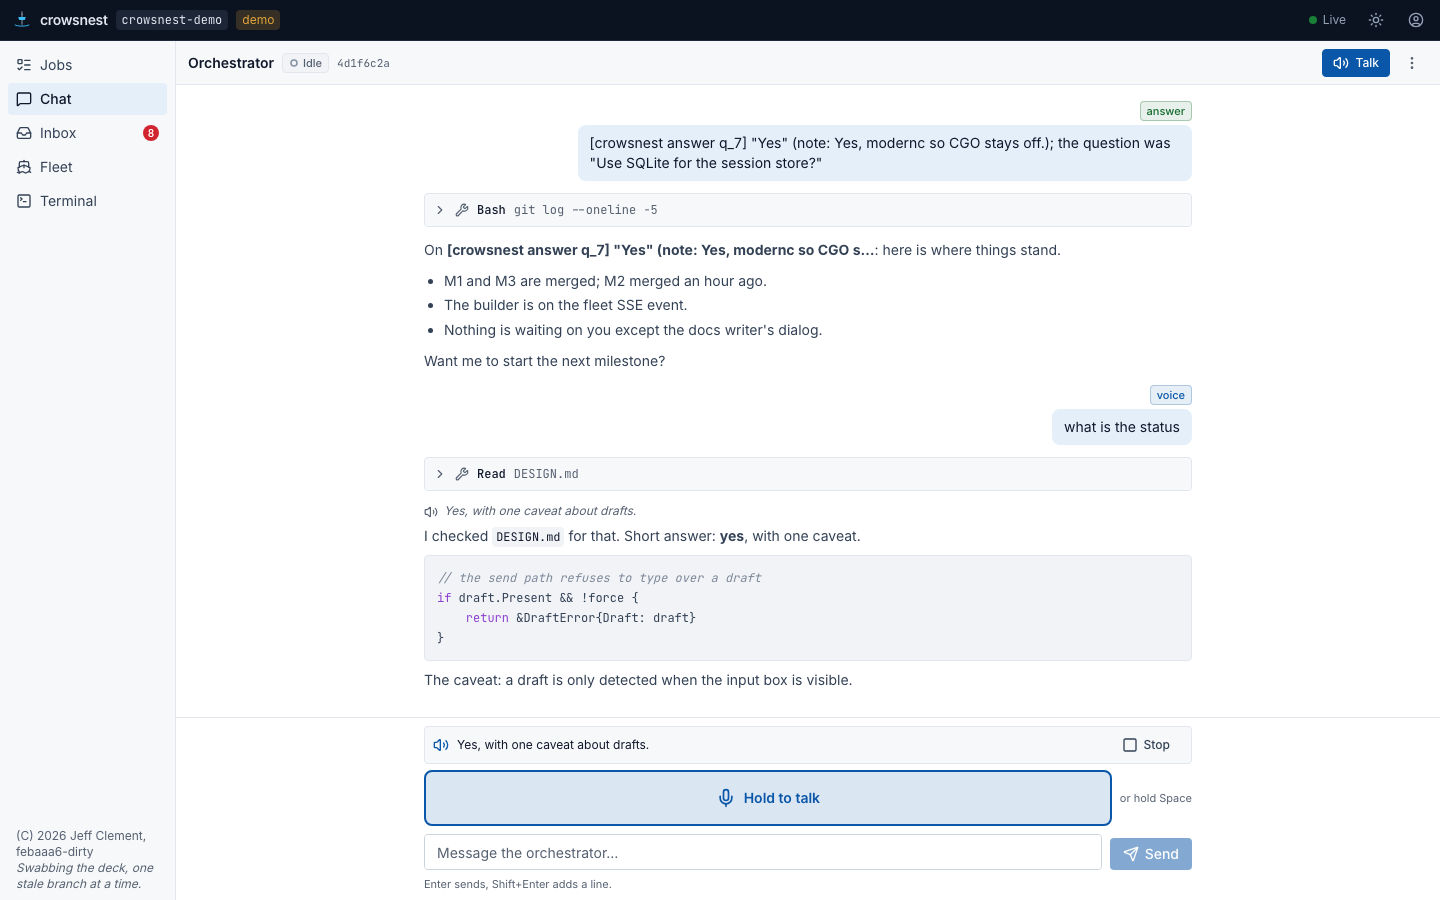
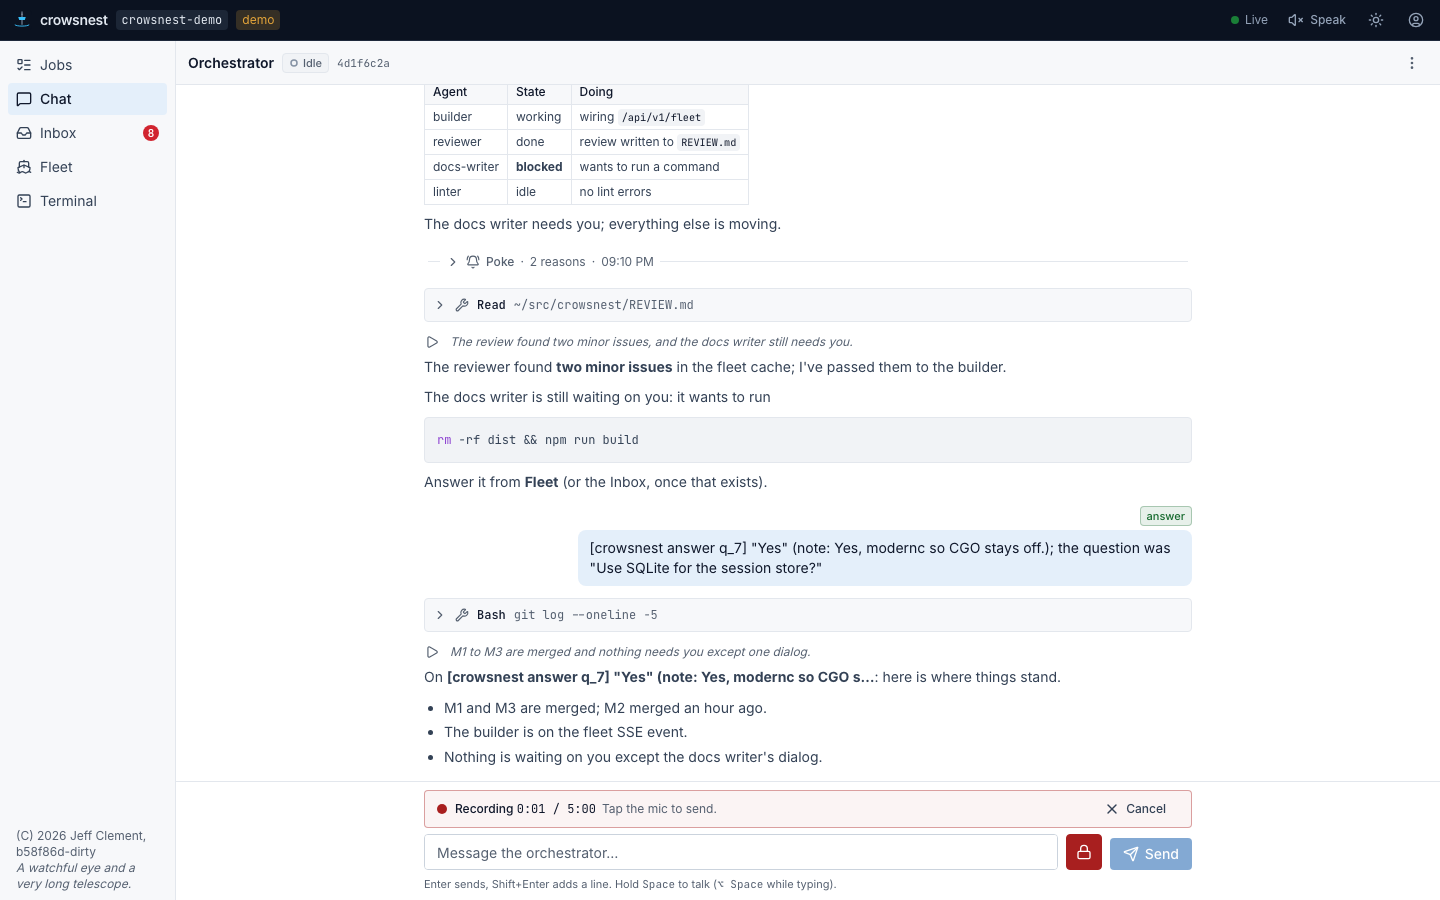
E2E: the voice flow, hold Space with real key events (Chromium and WebKit), the Voice sheet

diff --git a/web/e2e/hermetic/talk.spec.ts b/web/e2e/hermetic/talk.spec.ts
@@ -1,13 +1,22 @@
-// Talk mode end to end (M11) against `crowsnest --demo` and a fake ElevenLabs, with Chromium's
-// fake microphone: turn talk mode on, hold to talk, the recording is transcribed (by the fake)
-// and sent to the orchestrator under the voice header; the demo orchestrator answers with a
-// SAY line, which the server turns into a `say` event; the browser fetches /voice/tts for it and
-// plays it through the speech <audio> element. Also photographs Chat with talk mode on at 375
-// and 1440 px. Part of `mise run e2e` (desktop Chromium only: the fake microphone is a Chromium
-// switch); `mise run e2e:voice` runs it alone.
+// Talk mode end to end against `crowsnest --demo` and a fake ElevenLabs, with the browser's fake
+// microphone:
+//
+// - The mic in the Chat composer (no switch first): hold → transcribed → sent under the voice
+//   header; the demo orchestrator's reply carries a SAY line (it always does now), shown as the
+//   caption; with speak mode on (the header switch, on every view) the browser fetches its
+//   speech and plays it; with it off nothing is synthesised; a reply's play button speaks it on
+//   demand.
+// - Hold Space, driven with real key events (Playwright keyboard.down/up): holds of 3 s and 30 s
+//   from the page, from a focused button and with auto-repeat; a quick tap that must not lock the
+//   mic on or send; Option/Ctrl+Space from the composer while plain Space types; blur mid-hold.
+//   These are the cases that were broken (see the voice-fix report); they run in Chromium and
+//   in WebKit.
+// - The Voice sheet: the account's voices, a preview, and a saved voice and speed used for the
+//   next reply.
+// - Chat at 375 and 1440 px with the mic recording, photographed.
 //
 // Each test starts its own fake ElevenLabs on a free port and a demo instance pointed at it, so
-// no real ElevenLabs call is ever made.
+// no real ElevenLabs call is ever made. `mise run e2e:voice` runs this file alone.
 import { spawn, type ChildProcess } from "node:child_process";
 import type { Page } from "@playwright/test";
 import { expect, test as base } from "../support/fixtures";
@@ -38,7 +47,10 @@ test.use({
   permissions: ["microphone"],
   launchOptions: { args: ["--use-fake-device-for-media-stream", "--use-fake-ui-for-media-stream", "--autoplay-policy=user-gesture-required"] },
 });
-test.skip(({ browserName, isMobile }) => browserName !== "chromium" || isMobile, "the fake microphone is a desktop Chromium switch");
+// The fake microphone is a Chromium switch; WebKit (Playwright's build) has a mock capture device
+// of its own. Mobile Chromium adds nothing here, so only desktop Chromium and WebKit run.
+test.skip(({ browserName, isMobile }) => browserName === "chromium" && isMobile, "desktop Chromium covers Chromium");
+const chromiumOnly = (browserName: string) => test.skip(browserName !== "chromium", "this flow uses Chromium's fake microphone and audio checks");
 
 interface FakeRequest {
   method: string;
@@ -48,7 +60,7 @@ interface FakeRequest {
   fileType?: string;
   fileBytes?: number;
   model?: string;
-  json?: { text?: string; model_id?: string } | null;
+  json?: { text?: string; model_id?: string; voice_settings?: { speed?: number } } | null;
 }
 
 async function fakeRequests(page: Page, fakeURL: string): Promise<FakeRequest[]> {
@@ -63,30 +75,59 @@ async function openChat(page: Page) {
 }
 
 /** Holds the push-to-talk button for ms with the mouse, as a person would. */
+/** Holds the mic button for ms with the mouse, as a person would. */
 async function holdToTalk(page: Page, ms: number) {
-  const button = page.getByRole("button", { name: "Hold to talk" });
+  const button = page.getByTestId("mic-button");
   const box = await button.boundingBox();
-  if (!box) throw new Error("no push-to-talk button");
+  if (!box) throw new Error("no mic button");
   await page.mouse.move(box.x + box.width / 2, box.y + box.height / 2);
   await page.mouse.down();
-  await expect(page.locator('[data-phase="recording"]')).toBeVisible();
+  await expect(button).toHaveAttribute("data-phase", "recording");
   await expect(page.getByTestId("recording-elapsed")).toBeVisible();
   await page.waitForTimeout(ms);
   await page.mouse.up();
 }
 
-test("hold to talk → transcribed → sent → SAY reply fetched from /voice/tts and played", async ({ page, fakeURL }) => {
+/** Counts this page's speech-to-text uploads. */
+function countUploads(page: Page): () => number {
+  let uploads = 0;
+  page.on("request", (request) => {
+    if (request.url().endsWith("/api/v1/voice/stt")) uploads++;
+  });
+  return () => uploads;
+}
+
+/** Holds Space for ms with real key events, sending auto-repeat keydowns every 100 ms if asked. */
+async function holdSpace(page: Page, ms: number, repeat: boolean) {
+  await page.keyboard.down("Space");
+  await expect(page.getByTestId("mic-button")).toHaveAttribute("data-phase", "recording");
+  const end = Date.now() + ms;
+  while (Date.now() < end) {
+    await page.waitForTimeout(100);
+    if (repeat) await page.keyboard.down("Space"); // Playwright marks a second down as a repeat
+  }
+  await page.keyboard.up("Space");
+}
+
+const pageScroll = (page: Page) => page.evaluate(() => [window.scrollY, document.querySelector("main")?.scrollTop ?? 0, document.querySelector("[data-scroll-container]")?.scrollTop ?? 0]);
+
+// ---- The flow ----------------------------------------------------------------------------
+
+test("mic → transcribed → sent; with speak mode on the SAY reply is fetched and played", async ({ page, fakeURL, browserName }) => {
+  chromiumOnly(browserName);
   await page.setViewportSize({ width: 1440, height: 900 });
   await openChat(page);
   const me = await (await page.request.get("/api/v1/auth/me")).json();
   expect(me.data.features.voice).toBe(true);
 
-  // The toggle is the gesture that unlocks audio and starts the talk heartbeat.
-  const heartbeat = page.waitForRequest((request) => request.url().endsWith("/api/v1/voice/talk") && request.method() === "POST");
-  await page.getByRole("button", { name: "Talk", exact: true }).click();
-  await expect(page.getByRole("button", { name: "Talk", exact: true })).toHaveAttribute("aria-pressed", "true");
-  expect((await heartbeat).postDataJSON()).toMatchObject({ on: true });
+  // Speak mode is the header's switch, on every view; it is the gesture that unlocks audio.
+  const toggle = page.getByTestId("speak-toggle");
+  await expect(toggle).toHaveAttribute("aria-pressed", "false");
+  await toggle.click();
+  await expect(toggle).toHaveAttribute("aria-pressed", "true");
 
+  // The mic is in the composer without any switch, with the Space hint beside it.
+  await expect(page.getByTestId("space-hint")).toContainText("Hold Space to talk");
   const upload = page.waitForResponse((response) => response.url().endsWith("/api/v1/voice/stt"));
   await holdToTalk(page, 1200);
   const stt = await upload;
@@ -97,56 +138,85 @@ test("hold to talk → transcribed → sent → SAY reply fetched from /voice/tt
   await expect(page.getByTestId("voice-transcript")).toHaveText("what is the status");
   const prompt = await page.waitForRequest((request) => request.url().endsWith("/api/v1/agents/orchestrator/prompt"), { timeout: 5_000 });
   expect(prompt.postDataJSON()).toEqual({ text: "what is the status", voice: true });
-
-  // The voice message shows with its chip, without the header line.
   const conversation = page.getByRole("list", { name: "Conversation" });
   await expect(conversation.getByText("what is the status", { exact: true })).toBeVisible();
 
-  // The demo orchestrator replies with a SAY line (talk=on); the server makes it a `say` event
-  // and the browser fetches its speech.
+  // The demo orchestrator's reply has a SAY line; the server makes it a `say` event and this
+  // browser, with speak mode on, fetches its speech.
   const tts = await page.waitForResponse((response) => response.url().includes("/api/v1/voice/tts?text_id=t_"), { timeout: 20_000 });
   expect(tts.status()).toBe(200);
   expect(tts.headers()["content-type"]).toBe("audio/wav");
   const textId = new URL(tts.url()).searchParams.get("text_id");
-
-  // The reply renders with the SAY sentence as a small spoken caption, not as Markdown.
   const caption = page.getByTestId("spoken-caption").last();
   await expect(caption).toBeVisible();
   await expect(page.getByRole("article", { name: "Reply" }).last()).not.toContainText("SAY:");
-
-  // The audio element played that text to the end.
   const audio = page.locator('audio[data-testid="speech-audio"]');
   await expect.poll(() => audio.evaluate((element: HTMLAudioElement) => element.currentSrc)).toContain(`text_id=${textId}`);
   await expect
     .poll(() => audio.evaluate((element: HTMLAudioElement) => ({ played: element.played.length > 0, error: element.error?.code ?? 0 })), { timeout: 10_000 })
     .toEqual({ played: true, error: 0 });
 
-  // Upstream: the key was sent on every call, the recording went as webm, the TTS text is the SAY sentence.
+  // Upstream: the key was sent on every call, the recording went as webm with scribe_v3, the TTS
+  // text is the SAY sentence, on the fast model.
   const upstream = await fakeRequests(page, fakeURL);
-  expect(upstream.length).toBeGreaterThanOrEqual(2);
   expect(upstream.every((request) => request.keyOk)).toBe(true);
   const sttCall = upstream.find((request) => request.path === "/v1/speech-to-text");
   expect(sttCall?.fileType).toMatch(/^audio\/webm/);
+  expect(sttCall?.model).toBe("scribe_v3");
   expect(sttCall?.fileBytes).toBeGreaterThan(1000);
   const ttsCall = upstream.find((request) => request.path?.startsWith("/v1/text-to-speech/"));
-  expect(ttsCall?.json?.text).toBe(await caption.textContent());
-
-  // The key never reached the browser: not in /auth/me, not in any page the test can read.
+  expect(ttsCall?.json?.text).toBe((await caption.textContent())?.trim());
+  expect(ttsCall?.json?.model_id).toBe("eleven_flash_v2_5");
+  expect(ttsCall?.path).toContain("output_format=mp3_44100_64");
   expect(JSON.stringify(me)).not.toContain(FAKE_KEY);
+});
+
+test("speak mode off: replies are captioned and nothing is synthesised; the play button speaks one on demand", async ({ page, fakeURL, browserName }) => {
+  chromiumOnly(browserName);
+  await page.setViewportSize({ width: 1440, height: 900 });
+  await openChat(page);
+  await holdToTalk(page, 900);
+  await page.getByRole("button", { name: "Send now" }).click();
+  // The demo's seeded replies and the new one all carry SAY captions.
+  await expect(page.getByTestId("spoken-caption")).toHaveCount(3, { timeout: 20_000 });
+  await page.waitForTimeout(1_000);
+  let upstream = await fakeRequests(page, fakeURL);
+  expect(upstream.filter((request) => request.path?.startsWith("/v1/text-to-speech/"))).toHaveLength(0);
+
+  // Play one reply on demand, speak mode still off.
+  const tts = page.waitForResponse((response) => response.url().includes("/api/v1/voice/tts?text_id=t_"));
+  await page.getByRole("button", { name: "Play this reply aloud" }).first().click();
+  expect((await tts).status()).toBe(200);
+  await expect(page.getByTestId("player-bar")).toBeVisible();
+  upstream = await fakeRequests(page, fakeURL);
+  expect(upstream.filter((request) => request.path?.startsWith("/v1/text-to-speech/"))).toHaveLength(1);
+  await expect(page.getByTestId("speak-toggle")).toHaveAttribute("aria-pressed", "false");
+});
+
+test("speak mode is remembered and works from another view", async ({ page, browserName }) => {
+  chromiumOnly(browserName);
+  await page.setViewportSize({ width: 1440, height: 900 });
+  await page.goto("/");
+  await page.getByTestId("speak-toggle").click();
+  await page.reload();
+  await expect(page.getByTestId("speak-toggle")).toHaveAttribute("aria-pressed", "true");
+  // The switch is in the header of every view, not only Chat.
+  for (const path of ["/inbox", "/fleet", "/chat"]) {
+    await page.goto(path);
+    await expect(page.getByTestId("speak-toggle")).toHaveAttribute("aria-pressed", "true");
+  }
 });
 
 test("the browser cannot make crowsnest speak arbitrary text", async ({ page }) => {
   await page.goto("/chat");
-  const made = await page.request.get("/api/v1/voice/tts?text_id=t_000000000000000000000000");
-  expect(made.status()).toBe(404);
-  const text = await page.request.get("/api/v1/voice/tts?text=hello");
-  expect(text.status()).toBe(400);
+  expect((await page.request.get("/api/v1/voice/tts?text_id=t_000000000000000000000000")).status()).toBe(404);
+  expect((await page.request.get("/api/v1/voice/tts?text=hello")).status()).toBe(400);
 });
 
-test("Cancel during the review sends nothing", async ({ page }) => {
+test("Cancel during the review sends nothing", async ({ page, browserName }) => {
+  chromiumOnly(browserName);
   await page.setViewportSize({ width: 1440, height: 900 });
   await openChat(page);
-  await page.getByRole("button", { name: "Talk", exact: true }).click();
   let prompts = 0;
   page.on("request", (request) => {
     if (request.url().endsWith("/prompt")) prompts++;
@@ -158,27 +228,156 @@ test("Cancel during the review sends nothing", async ({ page }) => {
   expect(prompts).toBe(0);
 });
 
+// ---- Hold Space, with real key events ----------------------------------------------------------
+
+test.describe("hold Space", () => {
+  test.beforeEach(async ({ page }) => {
+    await page.setViewportSize({ width: 1440, height: 900 });
+    await openChat(page);
+  });
+
+  for (const [name, ms] of [
+    ["3 s", 3_000],
+    ["30 s", 30_000],
+  ] as const) {
+    test(`held ${name} on the page with auto-repeat: records the whole time, sends once, never scrolls`, async ({ page }) => {
+      test.setTimeout(90_000);
+      await page.locator("main").click({ position: { x: 5, y: 5 } });
+      const uploads = countUploads(page);
+      const before = await pageScroll(page);
+      await holdSpace(page, ms, true);
+      await expect(page.getByTestId("voice-transcript")).toHaveText("what is the status");
+      expect(uploads()).toBe(1);
+      expect(await pageScroll(page)).toEqual(before);
+    });
+  }
+
+  test("with a button focused, Space talks and does not press the button", async ({ page }) => {
+    const menu = page.getByRole("button", { name: "Conversation menu" });
+    await menu.focus();
+    await holdSpace(page, 3_000, true);
+    await expect(page.getByTestId("voice-transcript")).toBeVisible();
+    await expect(menu).toHaveAttribute("aria-expanded", "false");
+  });
+
+  test("with the speak toggle focused, Space talks and leaves speak mode alone", async ({ page }) => {
+    const toggle = page.getByTestId("speak-toggle");
+    await toggle.click(); // on, and focused
+    await holdSpace(page, 1_500, false);
+    await expect(page.getByTestId("voice-transcript")).toBeVisible();
+    await expect(toggle).toHaveAttribute("aria-pressed", "true");
+  });
+
+  test("a quick tap does not lock the mic on and sends nothing", async ({ page }) => {
+    await page.locator("main").click({ position: { x: 5, y: 5 } });
+    const uploads = countUploads(page);
+    await page.keyboard.down("Space");
+    await page.waitForTimeout(100);
+    await page.keyboard.up("Space");
+    await expect(page.getByRole("alert")).toContainText("Hold the key down");
+    await page.waitForTimeout(1_500);
+    await expect(page.getByTestId("mic-button")).not.toHaveAttribute("data-phase", "recording");
+    expect(uploads()).toBe(0);
+  });
+
+  test("in the composer Space types a space, and the chord talks", async ({ page }) => {
+    const box = page.getByRole("textbox", { name: /Message to/ });
+    await box.click();
+    const uploads = countUploads(page);
+    await page.keyboard.down("Space");
+    await page.waitForTimeout(500);
+    await page.keyboard.up("Space");
+    await expect(box).toHaveValue(" ");
+    expect(uploads()).toBe(0);
+    await page.keyboard.down("Alt");
+    await page.keyboard.down("Space");
+    await expect(page.getByTestId("mic-button")).toHaveAttribute("data-phase", "recording");
+    await page.waitForTimeout(1_500);
+    await page.keyboard.up("Alt"); // the modifier first: the recording carries on until Space is up
+    await page.waitForTimeout(300);
+    await expect(page.getByTestId("mic-button")).toHaveAttribute("data-phase", "recording");
+    await page.keyboard.up("Space");
+    await expect(page.getByTestId("voice-transcript")).toBeVisible();
+    await expect(box).toHaveValue(" "); // no non-breaking space typed by Option+Space
+    expect(uploads()).toBe(1);
+  });
+
+  test("losing focus mid-hold ends the recording as a release", async ({ page }) => {
+    await page.locator("main").click({ position: { x: 5, y: 5 } });
+    await page.keyboard.down("Space");
+    await expect(page.getByTestId("mic-button")).toHaveAttribute("data-phase", "recording");
+    await page.waitForTimeout(1_500);
+    await page.evaluate(() => window.dispatchEvent(new Event("blur")));
+    await expect(page.getByTestId("voice-transcript")).toBeVisible();
+    await page.keyboard.up("Space");
+  });
+});
+
+// ---- The Voice sheet ---------------------------------------------------------------------------
+
+test("Voice sheet: the account's voices, a preview, and a saved voice and speed used for the next reply", async ({ page, fakeURL, browserName }) => {
+  chromiumOnly(browserName);
+  await page.setViewportSize({ width: 1440, height: 900 });
+  await openChat(page);
+  await page.getByRole("button", { name: "Account" }).click();
+  await page.getByRole("menuitem", { name: "Voice" }).click();
+  const sheet = page.getByRole("dialog", { name: "Voice" });
+  await expect(sheet.getByTestId("voice-source")).toContainText("stock voice");
+  const select = sheet.getByRole("combobox", { name: "Voice" });
+  await expect(select.locator("option")).toHaveCount(3); // default + two voices
+  await select.selectOption({ label: "Brian (american, male, middle aged)" });
+  await sheet.getByRole("slider", { name: "Speed" }).fill("1.5");
+  const preview = page.waitForResponse((response) => response.url().includes("/api/v1/voice/tts?text_id="));
+  await sheet.getByRole("button", { name: "Preview" }).click();
+  expect((await preview).status()).toBe(200);
+  const audio = page.locator('audio[data-testid="speech-audio"]');
+  await expect.poll(() => audio.evaluate((element: HTMLAudioElement) => element.playbackRate)).toBe(1.25);
+  let upstream = await fakeRequests(page, fakeURL);
+  const previewCall = upstream.find((request) => request.path?.startsWith("/v1/text-to-speech/nPczCjzI2devNBz1zQrb/"));
+  expect(previewCall?.json).toMatchObject({ voice_settings: { speed: 1.2 } });
+
+  await sheet.getByRole("button", { name: "Save" }).click();
+  await expect(sheet).toBeHidden();
+  const saved = await (await page.request.get("/api/v1/voice/settings")).json();
+  expect(saved.data).toMatchObject({ voice_id: "nPczCjzI2devNBz1zQrb", voice_source: "settings", speed: 1.5, playback_rate: 1.25 });
+
+  // The next reply is spoken in the new voice.
+  await page.getByTestId("speak-toggle").click();
+  await holdToTalk(page, 900);
+  await page.getByRole("button", { name: "Send now" }).click();
+  await page.waitForResponse((response) => response.url().includes("/api/v1/voice/tts?text_id=t_"), { timeout: 20_000 });
+  upstream = await fakeRequests(page, fakeURL);
+  const replyCall = upstream.filter((request) => request.path?.startsWith("/v1/text-to-speech/")).at(-1);
+  expect(replyCall?.path).toContain("/nPczCjzI2devNBz1zQrb/");
+  await expect.poll(() => audio.evaluate((element: HTMLAudioElement) => element.playbackRate)).toBe(1.25);
+});
+
+// ---- Screenshots -------------------------------------------------------------------------------
+
 for (const size of [
   { name: "375x812", width: 375, height: 812 },
   { name: "1440x900", width: 1440, height: 900 },
 ]) {
-  test(`chat with talk mode at ${size.name}`, async ({ page }) => {
+  test(`chat with the mic recording at ${size.name}`, async ({ page, browserName }) => {
+    chromiumOnly(browserName);
     await page.addInitScript(() => localStorage.setItem("crowsnest-theme", "light"));
     await page.setViewportSize({ width: size.width, height: size.height });
     await openChat(page);
     await page.evaluate(() => document.fonts.ready);
-    await page.getByRole("button", { name: "Talk", exact: true }).click();
-    await holdToTalk(page, 900);
-    await expect(page.getByTestId("voice-transcript")).toBeVisible();
-    await page.waitForResponse((response) => response.url().includes("/api/v1/voice/tts?text_id="), { timeout: 20_000 });
-    await expect(page.getByTestId("spoken-caption").last()).toBeVisible();
-    await page.evaluate(() => {
-      for (const element of document.querySelectorAll<HTMLElement>("[data-scroll-container], main")) element.scrollTop = element.scrollHeight;
-    });
+    const mic = page.getByTestId("mic-button");
+    const box = await mic.boundingBox();
+    expect(box?.width).toBeGreaterThanOrEqual(size.width < 768 ? 44 : 36);
+    expect(box?.height).toBeGreaterThanOrEqual(size.width < 768 ? 44 : 36);
+    // Tap to lock, so the recording state can be photographed.
+    await mic.click();
+    await expect(mic).toHaveAttribute("data-phase", "recording");
+    await page.waitForTimeout(1_200);
     if (size.width < 768) {
       const overflow = await page.evaluate(() => document.documentElement.scrollWidth - document.documentElement.clientWidth);
       expect(overflow).toBeLessThanOrEqual(0);
     }
     await page.screenshot({ path: `screenshots/chat-talk-${size.name}.png`, animations: "disabled", caret: "hide" });
+    await mic.click();
+    await expect(page.getByTestId("voice-transcript")).toBeVisible();
   });
 }
